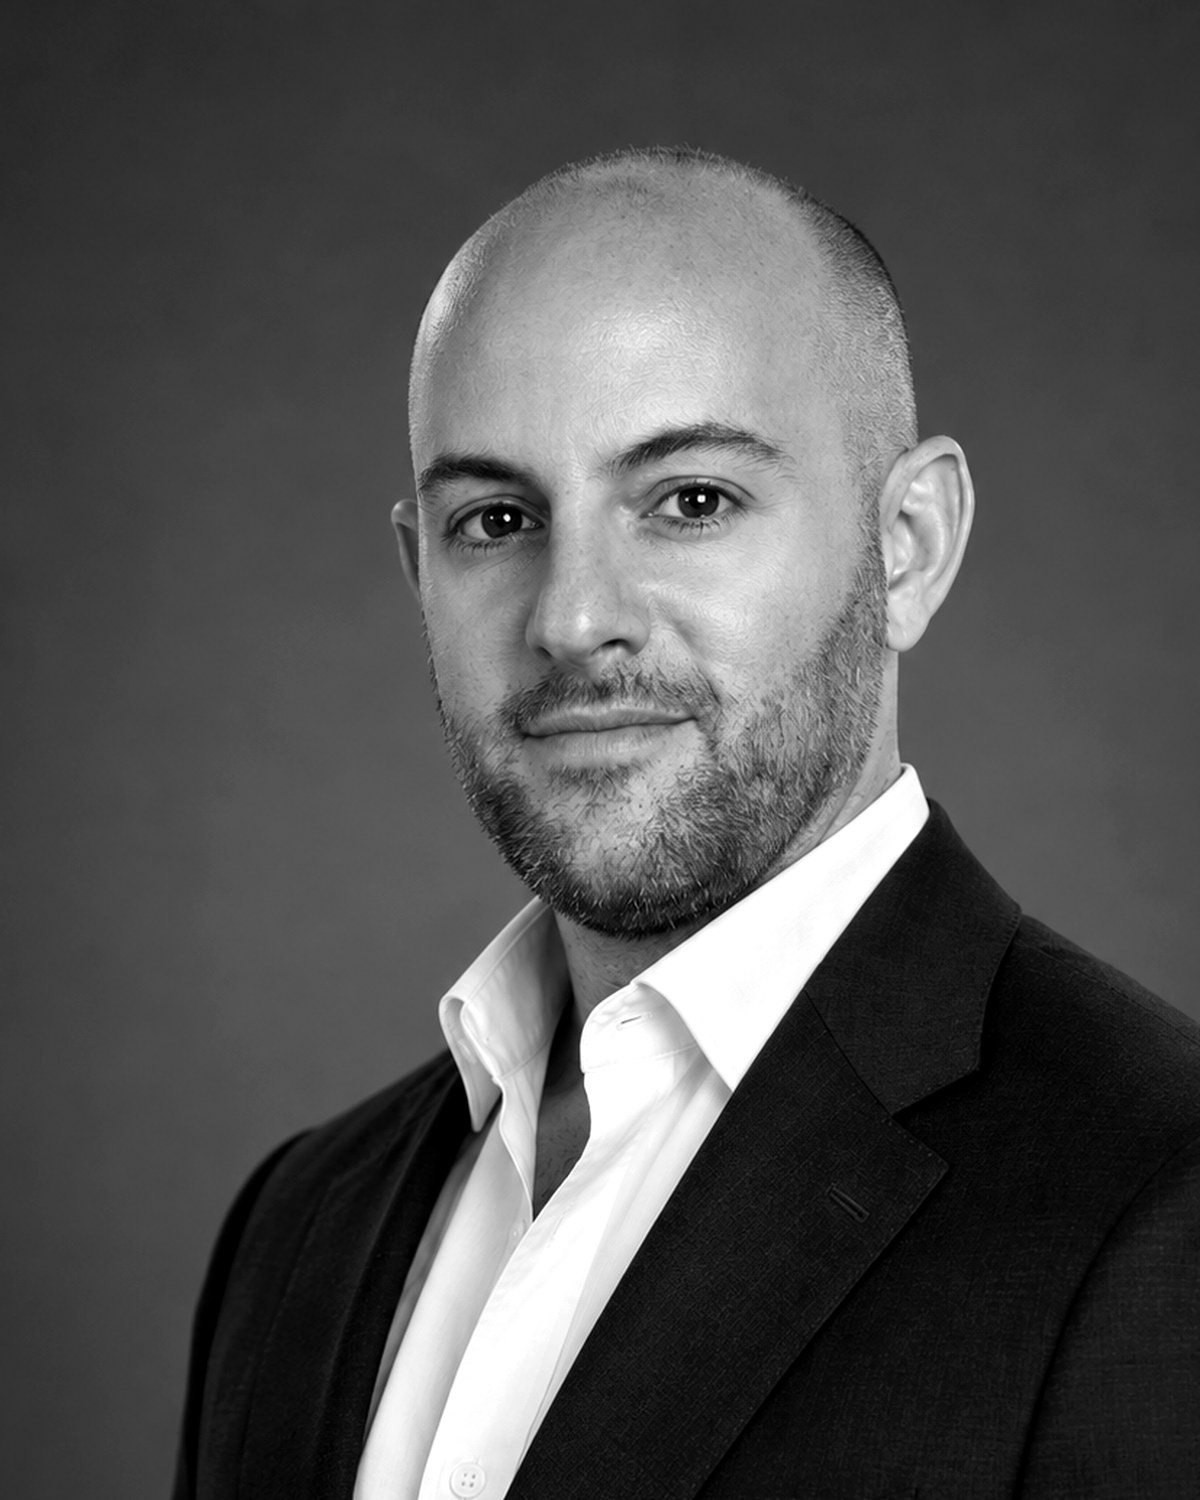
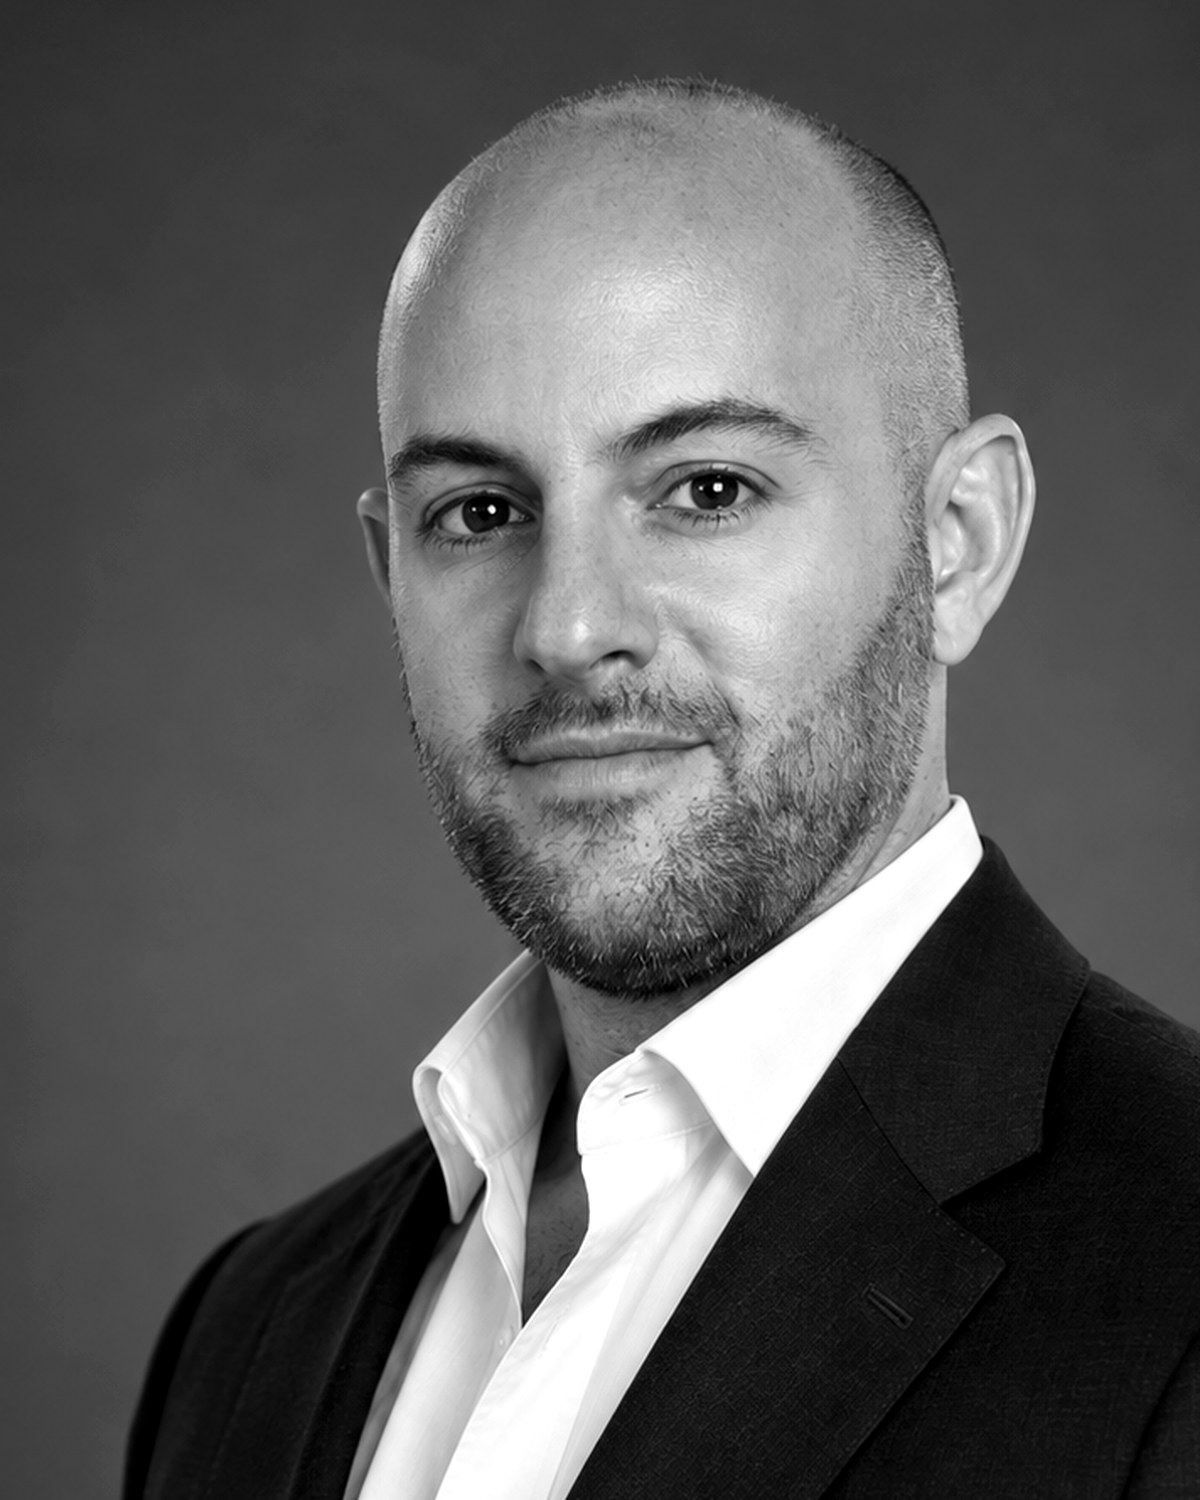
Josh Wein headshot: tighter crop to match Robert and Vince
Claude-Session: https://claude.ai/code/session_016DxiLUnyEzNwsPGZrHn11Q

diff --git a/scripts/make_headshots.py b/scripts/make_headshots.py
@@ -1,5 +1,5 @@
 """Normalize team headshots: black and white, 4:5, head-and-shoulders, consistent head size.
-Usage: python3 scripts/make_headshots.py <source image> <person-id>
+Usage: python3 scripts/make_headshots.py <source image> <person-id> [face share of width, default 0.5; higher = tighter]
 Writes src/assets/images/people/<person-id>.jpg (1200x1500)."""
 import sys, cv2, numpy as np
 from PIL import Image, ImageOps, ImageEnhance
@@ -14,7 +14,9 @@ def face(im):
     if len(f) == 0: raise SystemExit('no face found')
     return max(f, key=lambda r: r[2] * r[3])
 
-def run(src, pid):
+def run(src, pid, face_frac=None):
+    global FACE_FRAC
+    if face_frac: FACE_FRAC = face_frac
     im = ImageOps.exif_transpose(Image.open(src)).convert('RGB')
     x, y, w, h = face(im)
     cw = w / FACE_FRAC; ch = cw * OUT_H / OUT_W
@@ -34,4 +36,4 @@ def run(src, pid):
     print(pid, 'face', (x, y, w, h), 'src', im.size, 'crop w', int(cw))
 
 if __name__ == '__main__':
-    run(sys.argv[1], sys.argv[2])
+    run(sys.argv[1], sys.argv[2], float(sys.argv[3]) if len(sys.argv) > 3 else None)
